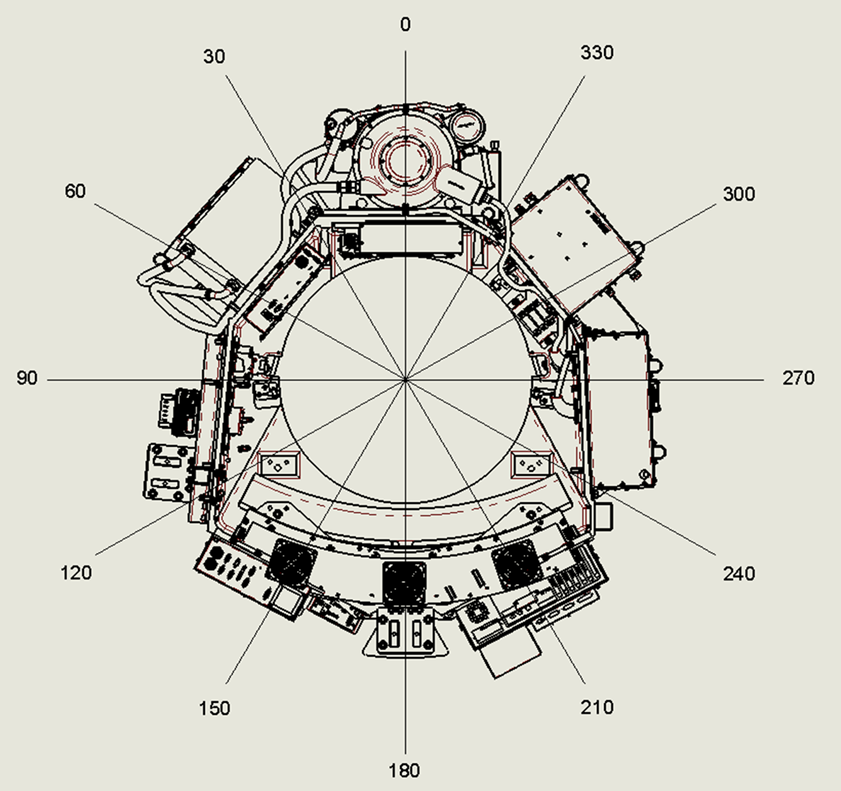
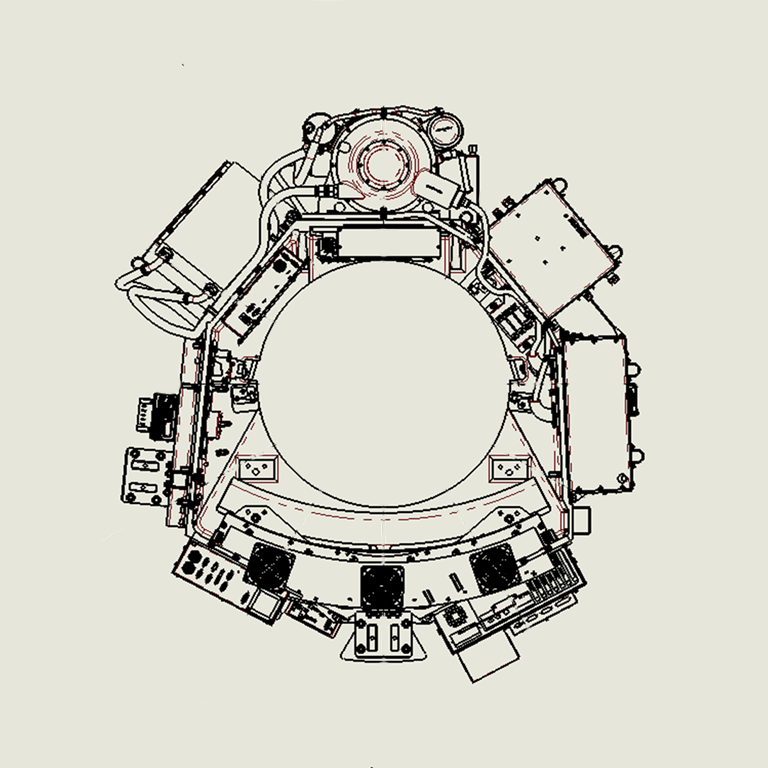
Resize GUI orientation and background images

diff --git a/StaticBalancing/MainWindow.xaml b/StaticBalancing/MainWindow.xaml
@@ -6,34 +6,30 @@
         xmlns:local="clr-namespace:StaticBalancing"
         xmlns:oxy="http://oxyplot.org/wpf"
         mc:Ignorable="d"
-        Title="Static Balancing Tool" Height="900" Width="900" ResizeMode="NoResize">
+        Title="Static Balancing Tool" Height="950" Width="900" ResizeMode="NoResize">
     <Grid Name="MainGrid">
         <Grid.RowDefinitions>
-            <RowDefinition Height = "25*"/>
-            <RowDefinition Height = "555*"/>
-            <RowDefinition Height = "320*"/>
+            <!--<RowDefinition Height = "25*"/>-->
+            <RowDefinition Height = "550"/>
+            <RowDefinition Height = "400"/>
         </Grid.RowDefinitions>
 
-        <Grid Name= "MenuGrid" Grid.Row="0">
+        <!--<Grid Name= "MenuGrid" Grid.Row="0">
             <DockPanel Name="MenuPanel"  VerticalAlignment="Stretch" HorizontalAlignment="Stretch">
                 <Menu DockPanel.Dock="Top">
                     <MenuItem Header="_System"></MenuItem>
                     <MenuItem Header="_Help"></MenuItem>
                 </Menu>
             </DockPanel>
-        </Grid>
+        </Grid>-->
 
-        <Grid Name="SystemGrid" Grid.Row="1">
+        <Grid Name="SystemGrid" Grid.Row="0">
             <Grid.RowDefinitions>
-                <RowDefinition Height="55*"/>
-                <RowDefinition Height="500*"/>
+                <RowDefinition Height="50"/>
+                <RowDefinition Height="500"/>
             </Grid.RowDefinitions>
 
             <Grid Name="PresetGrid" Grid.Row="0">
-                <Grid.ColumnDefinitions>
-                    <ColumnDefinition Width="770*"/>
-                    <ColumnDefinition Width="123*"/>
-                </Grid.ColumnDefinitions>
                 <Label x:Name="ConfigFilePathLabel" Content="System Configuration" Height ="35" HorizontalAlignment="Left" VerticalAlignment="Top" Margin="5,6,0,0" Width="145" FontSize="14" Padding="5"/>
                 <TextBox x:Name="ConfigFilePathTextbox" HorizontalAlignment="Left" Height="35" Margin="150,6,0,0" TextWrapping="NoWrap" VerticalAlignment="Top" Width="435" Text="{Binding SystemConfigFile, Mode=TwoWay, UpdateSourceTrigger = PropertyChanged}" FontSize="14" Padding="5" IsReadOnly="True" MouseDoubleClick="ConfigFilePathTextbox_MouseDoubleClick"/>
                 <Button x:Name="BrowseButton" Content="Browse" Height="35" HorizontalAlignment="Left" Margin="590,6,0,0" VerticalAlignment="Top" Width="90" Click="BrowseButton_Click"/>
@@ -42,15 +38,15 @@
 
             <Grid Name="InfoDisplayGrid" Grid.Row="1">
                 <Grid.ColumnDefinitions>
-                    <ColumnDefinition Width="400*"/>
-                    <ColumnDefinition Width="500*"/>
+                    <ColumnDefinition Width="400"/>
+                    <ColumnDefinition Width="500"/>
                 </Grid.ColumnDefinitions>
 
                 <Grid Name="SystemInfoGrid" Grid.Column="0">
                     <Grid.RowDefinitions>
-                        <RowDefinition Height="40*"/>
-                        <RowDefinition Height="50*"/>
-                        <RowDefinition Height="10*"/>
+                        <RowDefinition Height="200"/>
+                        <RowDefinition Height="250"/>
+                        <RowDefinition Height="50"/>
                     </Grid.RowDefinitions>
 
                     <Grid Name="InfoGrid" Grid.Row="0">
@@ -145,10 +141,8 @@
                 <Grid Name="RotorDiagramGrid" Grid.Column="1">
                     <Grid Name ="ImbalanceDisplayGrid">
                         <Grid.Background>
-                            <ImageBrush Opacity="0.3" ImageSource="pack://application:,,,/StaticBalancing;component/Resource/Images/CTRotorWithAngle.png" Stretch="UniformToFill" TileMode="FlipX"/>
+                            <ImageBrush Opacity="1" ImageSource="pack://application:,,,/StaticBalancing;component/Resource/Images/CTRotorWithAngle.png" Stretch="UniformToFill" TileMode="FlipX"/>
                         </Grid.Background>
-                        <oxy:Plot Name="ForceDiagramPlot">
-                        </oxy:Plot>
                     </Grid>
 
                 </Grid>
@@ -156,15 +150,17 @@
 
         </Grid>
 
-        <Grid Name="BalanceGrid" Grid.Row="2">
+        <Grid Name="BalanceGrid" Grid.Row="1">
+            <Grid.ColumnDefinitions>
+                <ColumnDefinition Width="450*"/>
+                <ColumnDefinition Width="200*"/>
+            </Grid.ColumnDefinitions>
             <Grid.RowDefinitions>
                 <RowDefinition Height="30*"/>
                 <RowDefinition Height="30*"/>
             </Grid.RowDefinitions>
             <Grid Name="BalanceLogGrid" Grid.Row="0">
-                <DataGrid x:Name="BalancingResultDataGrid" HorizontalAlignment="Stretch" VerticalAlignment="Stretch" ScrollViewer.VerticalScrollBarVisibility="Visible" ScrollViewer.HorizontalScrollBarVisibility="Auto"/>
-
-
+                <DataGrid x:Name="BalancingResultDataGrid" HorizontalAlignment="Stretch" VerticalAlignment="Stretch" ScrollViewer.VerticalScrollBarVisibility="Visible" ScrollViewer.HorizontalScrollBarVisibility="Auto" Background="White"/>
             </Grid>
 
             <Grid Name="BalanceResultGrid" Grid.Row="1">

diff --git a/StaticBalancing/MainWindow.xaml.cs b/StaticBalancing/MainWindow.xaml.cs
@@ -1,15 +1,16 @@
 using System;
 using System.Collections.Generic;
 using System.Windows;
-using System.Windows.Controls;
 using System.Windows.Input;
 using System.Windows.Media;
-using StaticBalancing.ViewModel;
 using System.IO;
 using System.Windows.Threading;
 
 using OxyPlot;
 using OxyPlot.Wpf;
+
+using StaticBalancing.ViewModel;
+using System.Windows.Media.Imaging;
 
 namespace StaticBalancing
 {
@@ -142,20 +143,20 @@ namespace StaticBalancing
             DrawForceVector();
         }
 
-        //TODO
+
         private void DrawForceVector()
         {
             List<ForceVector> fs = mainWindowViewModel.ForceVectors;
-            double maxMag = Double.MinValue;
+            double maxMag = double.MinValue;
             foreach(ForceVector fv in fs)
             {
                 maxMag = Math.Max(Math.Abs(fv.Imbalance), maxMag);
             }
 
-
             // Set OxyPlot Model attributes
+            OxyPlot.Wpf.Plot ForceDiagramPlot = new Plot();
             ForceDiagramPlot.PlotType = PlotType.Polar;
-            ForceDiagramPlot.PlotAreaBorderThickness = new Thickness(2);
+            ForceDiagramPlot.PlotAreaBorderThickness = new Thickness(0);
             ForceDiagramPlot.PlotMargins = new Thickness(0, 0, 0, 0);
 
             AngleAxis axis = new AngleAxis();
@@ -170,8 +171,8 @@ namespace StaticBalancing
             MagnitudeAxis magAxis = new MagnitudeAxis();
             magAxis.Minimum = 0;
             magAxis.Maximum = maxMag * 1.2;
-            magAxis.MajorStep = maxMag / 5;
-            magAxis.MinorStep = maxMag / 5;
+            magAxis.MajorStep = (int) maxMag / 5;
+            magAxis.MinorStep = (int) maxMag / 5;
             magAxis.Angle = 0;
             magAxis.Title = "Magnitude";
 
@@ -196,7 +197,17 @@ namespace StaticBalancing
 
                 ForceDiagramPlot.Series.Add(series);
             }
+
+            ImageSource src = new BitmapImage(new Uri("pack://application:,,,/BindingTest;component/Images/CTRotorWithAngle.png"));
+            ImageBrush backgroud = new ImageBrush(src);
+            backgroud.TileMode = TileMode.FlipX;
+            backgroud.Stretch = Stretch.UniformToFill;
+            backgroud.Opacity = 0.4;
+            ForceDiagramPlot.Background = new ImageBrush();
+
+            ImbalanceDisplayGrid.Children.Add(ForceDiagramPlot);
         }
+
 
         #region Status and Status Bar Control
         // Status Bar Funcs
